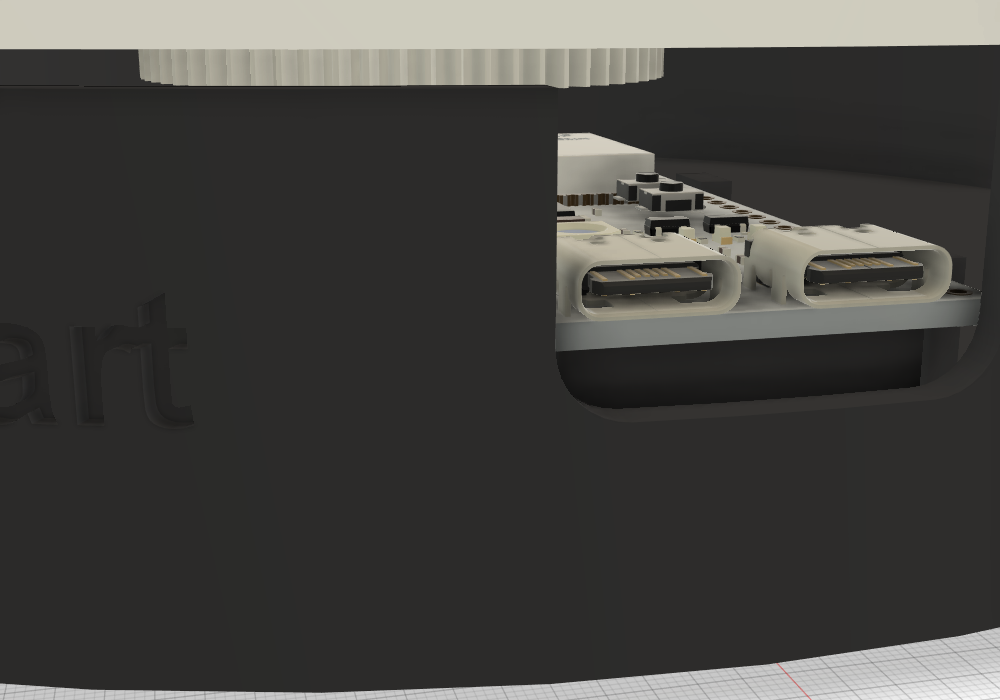
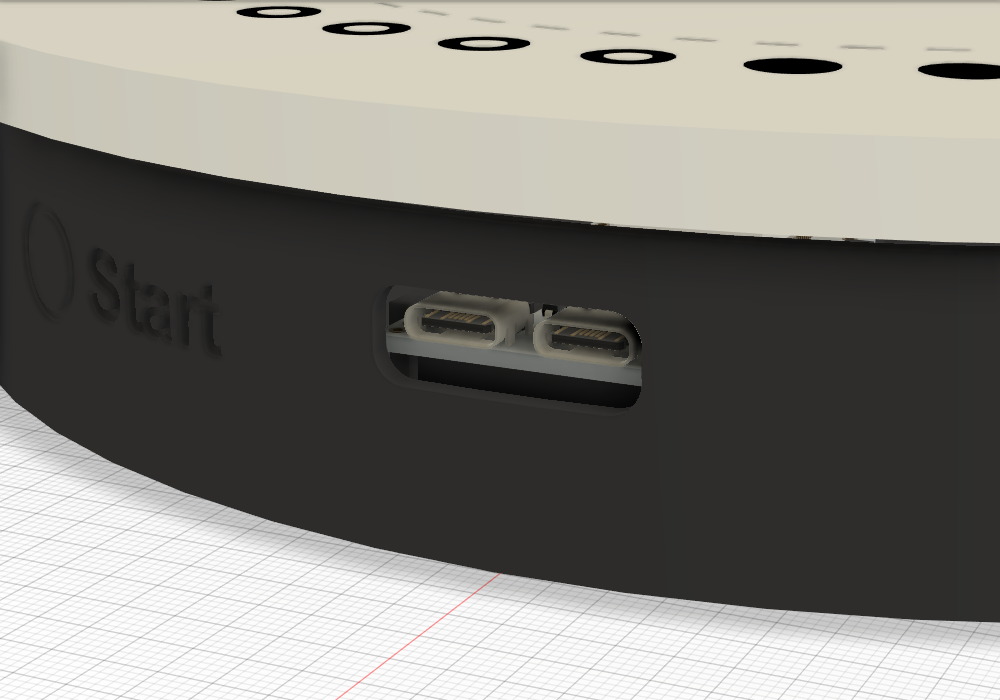
Closed, symmetric window for the ESP32's USB-C ports
25 x 9 mm with 3 mm round corners, centred on the two ports, the wall closed above it.

diff --git a/turntable_fusion.py b/turntable_fusion.py
@@ -93,8 +93,9 @@ ESP_PIN_X = 12.7            # pin rows, from the board's middle; header plastic 
 # and right-angle Dupont plugs or soldered wires, not for straight Dupont plugs.
 ESP_USB_X = -111.2          # the board's USB end, just inside the wall
 ESP_SNAPS = (10.0, 46.0)    # snap lips along the board, from its USB end
-USB_NOTCH_W = 25.0          # the opening for the plugs; narrower than the board
-USB_NOTCH_R = 4.0           # its bottom corners' radius
+USB_WINDOW = (25.0, 9.0, 3.0)   # window for the plugs, centred on the USB-C ports: width (narrower than the
+                                # board), height, corner radius
+USB_CENTRE_UP = 1.18        # the ports' middle above the PCB's top (devkit model)
 
 # --- Phone stand --------------------------------------------------------------------------------------------------
 # Adjustable cradle: a back plate with two slots, and two jaws with a V groove that take the phone's edges, whatever
@@ -512,11 +513,15 @@ def esp_holder():
         for ly in ESP_SNAPS:
             adds += [box(x0 + ly - 3, x0 + ly + 3, y_post[0], y_post[1], 0, top + 0.9),
                      box(x0 + ly - 3, x0 + ly + 3, y_lip[0], y_lip[1], top + 0.3, top + 0.9)]
-    # Open at the top (under the platter's rim), bottom corners rounded.
-    r, w2, zb = USB_NOTCH_R, USB_NOTCH_W / 2, h - 3
-    cuts = [box(-BASE_D, x0, -w2, w2, zb + r, BASE_TOP + 1), box(-BASE_D, x0, -w2 + r, w2 - r, zb, BASE_TOP + 1),
-            cyl_pts((-BASE_D, -w2 + r, zb + r), (x0, -w2 + r, zb + r), 2 * r),
-            cyl_pts((-BASE_D, w2 - r, zb + r), (x0, w2 - r, zb + r), 2 * r)]
+    # A closed window with rounded corners, symmetric about the ports.
+    w, wh, r = USB_WINDOW
+    zc = top + USB_CENTRE_UP
+    w2, h2 = w / 2, wh / 2
+    cuts = [box(-BASE_D, x0, -w2, w2, zc - h2 + r, zc + h2 - r), box(-BASE_D, x0, -w2 + r, w2 - r, zc - h2, zc + h2)]
+    for sy in (-1, 1):
+        for sz in (-1, 1):
+            y, z = sy * (w2 - r), zc + sz * (h2 - r)
+            cuts.append(cyl_pts((-BASE_D, y, z), (x0, y, z), 2 * r))
     return adds, cuts
 
 

diff --git a/README.md b/README.md
@@ -156,10 +156,10 @@ the WROOM module overhanging the far end by 6.4 mm, two USB-C at the near end.
 The board sits pins down, level with the touch module (PCB 17.3–18.8 mm up), with about 15 mm under it: enough for
 the pins with right-angle Dupont plugs or soldered wires, not for straight Dupont plugs. It rests on two ribs between the
 pin rows, its far end against a stop that stays under the module's overhang, and four snap lips over its long edges
-(outside the pins' solder joints) hold it down: press it in from above. Its USB-C ports face a 25 mm opening (bottom corners rounded, r 4) in the
-wall, open at the top and narrower than the board: plugging in pushes the board against the stop, pulling out pulls
-it against the wall beside the opening. Checked on the model: nothing touches it in place, and 0.2–0.5 mm of play in
-any direction brings the PCB, never a component, against the holder. The platter's rim covers the opening.
+(outside the pins' solder joints) hold it down: press it in from above. Its USB-C ports face a closed window in the wall,
+25 × 9 mm with 3 mm round corners, centred on the two ports and narrower than the board: plugging in pushes the board
+against the stop, pulling out pulls it against the wall beside the window. Checked on the model: nothing touches it in place, and 0.2–0.5 mm of play in
+any direction brings the PCB, never a component, against the holder.
 
 ![USB opening](usb.png)
 
